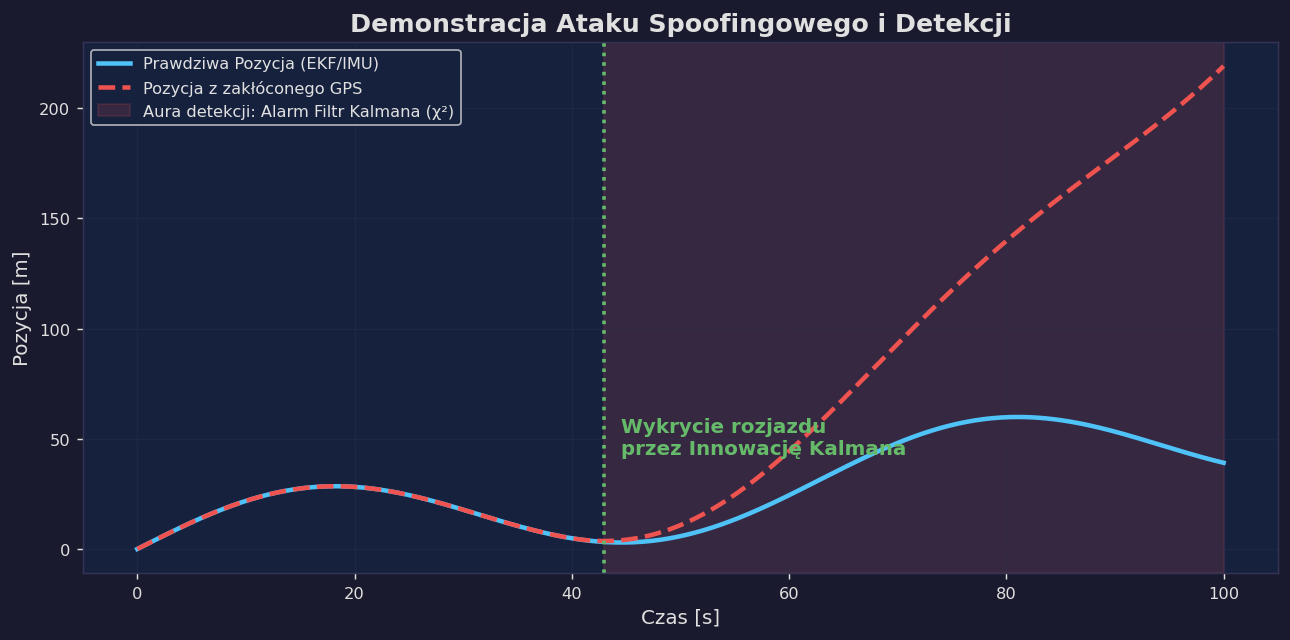
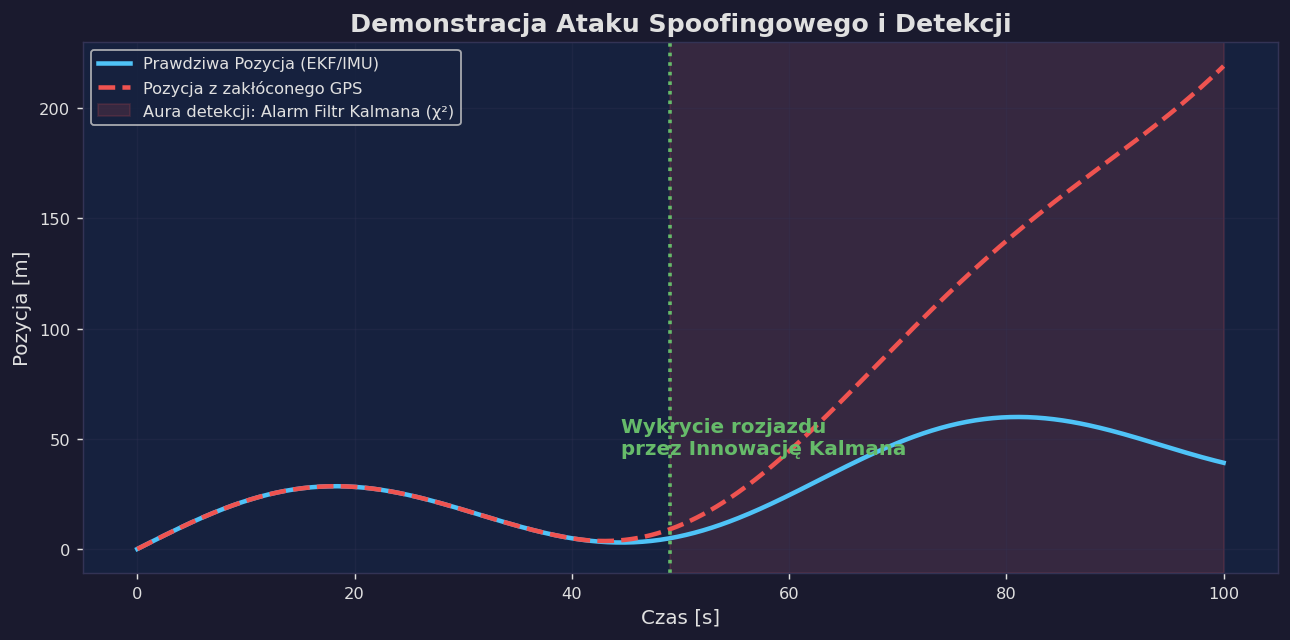
Fixes

Changed region(s): [[0.4651, 0.0625, 0.5271, 0.9062]]

diff --git a/extra_visualizations.py b/extra_visualizations.py
@@ -64,10 +64,10 @@ def plot_signal_drift(save_path='plot_1_signal_drift.png'):
     
     # Detekcja Kalmana (zaczyna alarmować tuż po rozpoczęciu dryfu, np. t=45)
     detection_time = 43
-    ax.axvspan(detection_time, 100, color=PLOT_STYLE['color_spoof'], alpha=0.15, label='Aura detekcji: Alarm Filtr Kalmana (χ²)')
+    ax.axvspan(detection_time + 6, 100, color=PLOT_STYLE['color_spoof'], alpha=0.15, label='Aura detekcji: Alarm Filtr Kalmana (χ²)')
     
     # Linia pionowa oznaczająca moment detekcji
-    ax.axvline(x=detection_time, color=PLOT_STYLE['color_kalman'], linestyle=':', linewidth=2)
+    ax.axvline(x=detection_time + 6, color=PLOT_STYLE['color_kalman'], linestyle=':', linewidth=2)
     ax.text(detection_time + 1.5, true_pos.max(), 'Wykrycie rozjazdu\nprzez Innowację Kalmana', 
             color=PLOT_STYLE['color_kalman'], fontsize=PLOT_STYLE['font_label'], fontweight='bold',
             verticalalignment='top')
